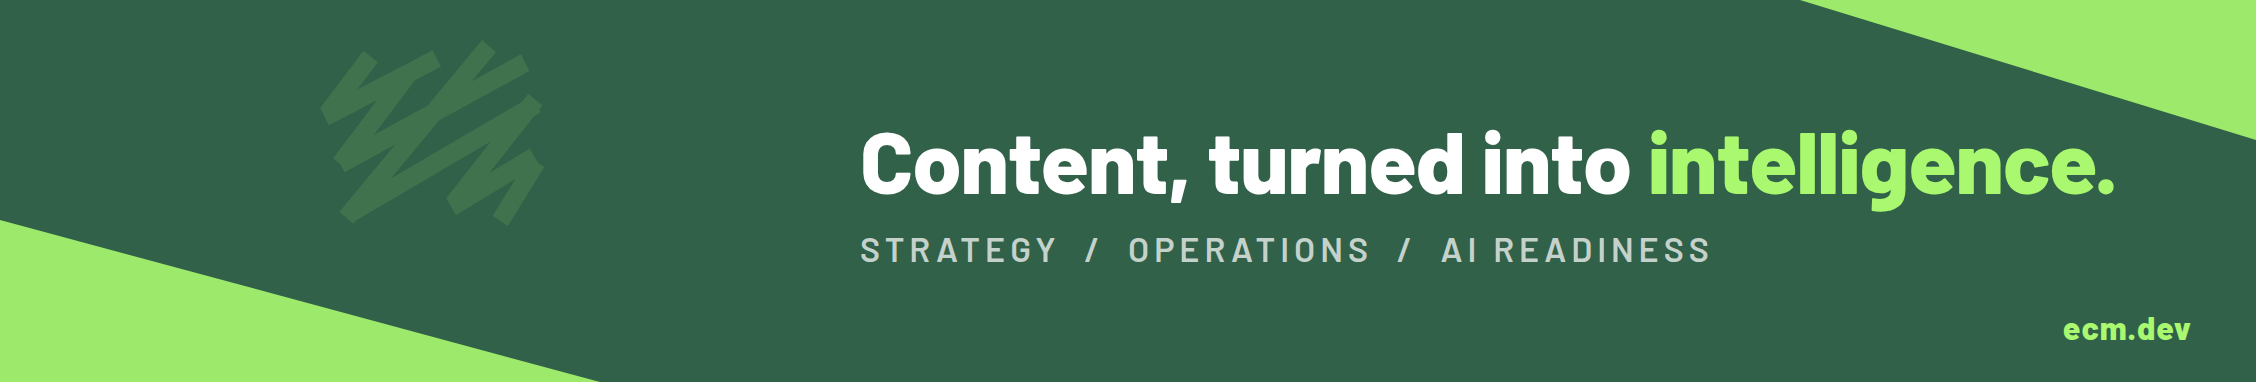
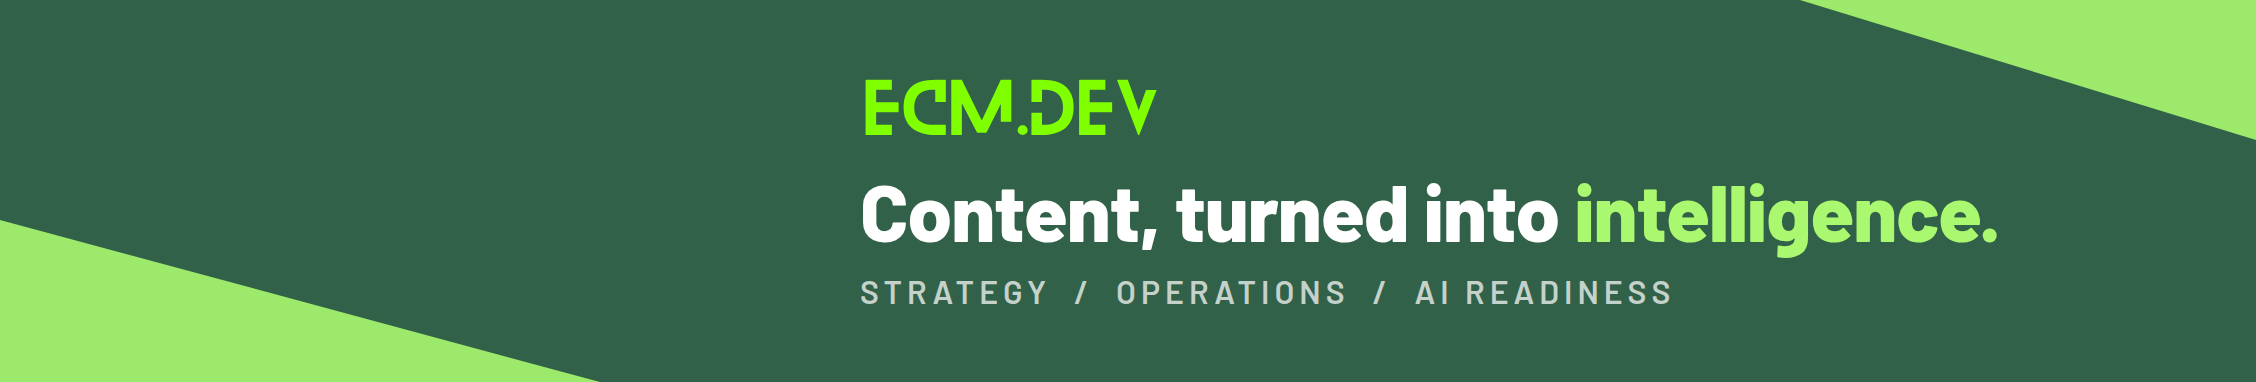
Put the ECM.DEV wordmark on the LinkedIn cover image
Replaces the faint zigzag mark and the ecm.dev text with the site's
wordmark above the headline.

Claude-Session: https://claude.ai/code/session_01QcYRoUEuGPTG7Q7VXXrRSo

Changed region(s): [[0.3723, 0.2016, 0.9619, 0.6911], [0.3723, 0.7199, 0.7447, 0.8063], [0.8998, 0.8351, 0.9929, 0.8927]]

diff --git a/brand/linkedin/cover.source.html b/brand/linkedin/cover.source.html
@@ -5,11 +5,11 @@ html,body{margin:0}
 .c{position:relative;width:1128px;height:191px;background:#316148;overflow:hidden;font-family:Barlow,sans-serif}
 .c svg.bg{position:absolute;inset:0}
 .t{position:absolute;left:430px;right:40px;top:0;bottom:0;display:flex;flex-direction:column;justify-content:center}
-h1{margin:0;font-weight:800;font-size:44px;line-height:1;letter-spacing:-0.5px;color:#fff}
+.t img{display:block;width:150px;height:34px;margin:0 0 14px}
+h1{margin:0;font-weight:800;font-size:40px;line-height:1;letter-spacing:-0.5px;color:#fff}
 h1 span{color:#AAF870}
-p{margin:12px 0 0;font-weight:600;font-size:17px;letter-spacing:2.5px;text-transform:uppercase;color:rgba(255,255,255,.72)}
-.u{position:absolute;right:32px;bottom:18px;font-weight:800;font-size:16px;color:#AAF870;letter-spacing:.5px}
+p{margin:11px 0 0;font-weight:600;font-size:16px;letter-spacing:2.5px;text-transform:uppercase;color:rgba(255,255,255,.72)}
 </style></head><body><div class="c">
-<svg class="bg" width="1128" height="191" viewBox="0 0 1128 191"><polygon points="0,110 300,191 0,191" fill="#AAF870" opacity=".9"/><polygon points="1128,0 900,0 1128,70" fill="#AAF870" opacity=".9"/><g transform="translate(160 20) scale(0.3) translate(-68 -100)" opacity=".12"><path d="M431.519 304.966L417.597 280.733L350.26 321.759L425.051 226.504L436.358 219.867L433.56 215.662L438.697 209.096L415.097 189.445L404.295 203.215L186.253 330.829L266.869 233.849L417.024 151.513L402.758 123.926L320.972 168.755L361.246 120.336L338.174 100L247.535 209.026L157.515 258.413L226.435 167.267L269.621 144.782L255.906 116.888L130.085 182.407L164.396 136.987L140.429 117.785L68 213.678L69.1238 214.576L82.6554 242.139L162.951 200.31L89.7653 297.077L101.76 306.69L108.893 320.484L193.431 274.12L100.338 386.121L123.411 406.457L128.044 400.883L352.623 269.018L278.061 364.014L279.277 365.029L279.162 365.1L294.62 392.002L393.791 331.561L355.604 393.207L381.199 410L442 311.863L431.519 304.966Z" fill="#AAF870"/></g></svg>
-<div class="t"><h1>Content, turned into <span>intelligence.</span></h1><p>Strategy &nbsp;/&nbsp; Operations &nbsp;/&nbsp; AI readiness</p></div>
-<div class="u">ecm.dev</div></div></body></html>
+<svg class="bg" width="1128" height="191" viewBox="0 0 1128 191"><polygon points="0,110 300,191 0,191" fill="#AAF870" opacity=".9"/><polygon points="1128,0 900,0 1128,70" fill="#AAF870" opacity=".9"/></svg>
+<div class="t"><img src="../../public/ecm-logo.svg" alt="ECM.DEV"><h1>Content, turned into <span>intelligence.</span></h1><p>Strategy &nbsp;/&nbsp; Operations &nbsp;/&nbsp; AI readiness</p></div>
+</div></body></html>
